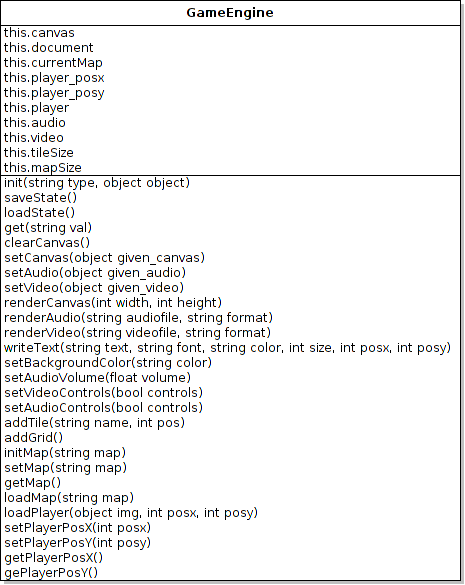
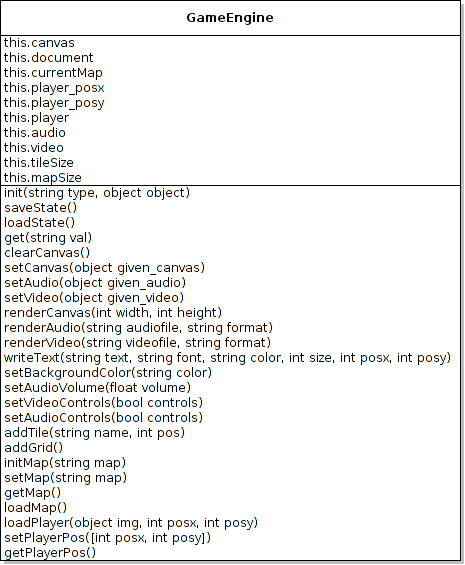
multiple handling files for audio and video, clean up code

diff --git a/assets/js/techdemo.js b/assets/js/techdemo.js
@@ -7,23 +7,25 @@ function techdemo() {
     engine.init("video",document.getElementById("video")); // set video element
     
     engine.renderCanvas(480,480); // render canvas
-    engine.renderAudio("assets/audio/soundtrack-example.ogg", "audio/ogg"); // render audio
+    engine.renderAudio(["assets/audio/soundtrack-example.ogg","assets/audio/soundtrack-example.MP3"], ["audio/ogg", "audio/mp3"]); // render audio
     engine.setAudioControls(true);
     
-    if (BrowserDetect.browser == "Safari" || BrowserDetect.browser == "Firefox")
+    /*if (BrowserDetect.browser == "Safari" || BrowserDetect.browser == "Firefox")
     {
-    	engine.renderVideo("assets/video/html5video.mp4", "video/mp4"); // render video
-    }
-    else {
     	engine.renderVideo("assets/video/html5video.ogv", "video/ogg"); // render video
     }
+    else {
+    	engine.renderVideo("assets/video/html5video.mp4", "video/mp4"); // render video
+    } */
+    engine.renderVideo(["assets/video/html5video.mp4","assets/video/html5video.ogv"],["video/mp4","video/ogg"]);
     
     engine.init("map", 15); // set map quad size
     engine.initMap("map0");
     engine.initMap("map1_1");
     engine.initMap("map1_2");
-    engine.setMap("map1_1"); // Set Player Map
-    
+    window.setTimeout(function() {
+        engine.setMap("map1_1").loadMap(); // Set Player Map
+    },500);
     // Main
     engine.setBackgroundColor("black"); // set background color
     
@@ -37,15 +39,15 @@ function techdemo() {
         switch(event.which) {
         case 48: // Press 0
         	engine.clearCanvas();
-        	generateMap0(engine);
+        	engine.setMap("map0").loadMap();
         	break;
         case 49: // Press 1
         	engine.clearCanvas();
-        	generateMap1_1(engine);
+        	engine.setMap("map1_1").loadMap();
         	break;
         case 50: // Press 2
         	engine.clearCanvas();
-        	generateMap1_2(engine);
+        	engine.setMap("map1_2").loadMap();
         	break;
         case 71: // Press G
         	engine.addGrid();
@@ -55,51 +57,51 @@ function techdemo() {
         	break;
         case 87: // Press W
         	if (checkPos1_1(engine)) {
-        		posy = engine.getPlayerPosY() - 10;
+        		posy = engine.getPlayerPos()[1] - 10;
         	}
         	else {
-        		posy = engine.getPlayerPosY() + 10;
+        		posy = engine.getPlayerPos()[1] + 10;
         	}
-        	engine.setPlayerPosY(posy);
+        	engine.setPlayerPos([engine.getPlayerPos()[0],posy]);
         	engine.clearCanvas();
         	engine.loadMap(engine.getMap());
-        	engine.loadPlayer("prototype_player",engine.getPlayerPosX(),posy);
+        	engine.loadPlayer("prototype_player",engine.getPlayerPos()[0],posy);
         	break;
         case 83: // Press S
         	if (checkPos1_1(engine)) {
-        		posy = engine.getPlayerPosY() + 10;
+        		posy = engine.getPlayerPos()[1] + 10;
         	}
         	else {
-        		posy = engine.getPlayerPosY() -10 ;
+        		posy = engine.getPlayerPos()[1] -10 ;
         	}
-        	engine.setPlayerPosY(posy);
+        	engine.setPlayerPos([engine.getPlayerPos()[0],posy]);
         	engine.clearCanvas();
         	engine.loadMap(engine.getMap());
-        	engine.loadPlayer("prototype_player",engine.getPlayerPosX(),posy);
+        	engine.loadPlayer("prototype_player",engine.getPlayerPos()[0],posy);
         	break;
         case 65: // Press A
         	if (checkPos1_1(engine)) {
-        		posx = engine.getPlayerPosX() - 10;
+        		posx = engine.getPlayerPos()[0] - 10;
         	}
         	else {
-        		posx = engine.getPlayerPosX() +10 ;
+        		posx = engine.getPlayerPos()[0] +10 ;
         	}
-        	engine.setPlayerPosX(posx);
+        	engine.setPlayerPos([posx,engine.getPlayerPos()[1]]);
         	engine.clearCanvas();
         	engine.loadMap(engine.getMap());
-        	engine.loadPlayer("prototype_player",posx,engine.getPlayerPosY());
+        	engine.loadPlayer("prototype_player",posx,engine.getPlayerPos()[1]);
         	break;
         case 68: // Press D
         	if (checkPos1_1(engine)) {
-        		posx = engine.getPlayerPosX() + 10;
+        		posx = engine.getPlayerPos()[0] + 10;
         	}
         	else {
-        		posx = engine.getPlayerPosX() -10 ;
+        		posx = engine.getPlayerPos()[0] -10 ;
         	}
-        	engine.setPlayerPosX(posx);
+        	engine.setPlayerPos([posx,engine.getPlayerPos()[1]]);
         	engine.clearCanvas();
         	engine.loadMap(engine.getMap());
-        	engine.loadPlayer("prototype_player",posx,engine.getPlayerPosY());
+        	engine.loadPlayer("prototype_player",posx,engine.getPlayerPos()[1]);
         	break;
         }
     };

diff --git a/engine/engine.js b/engine/engine.js
@@ -95,13 +95,28 @@ GameEngine.prototype = {
         return true;
     },
     renderAudio : function(audiofile, format) {
-        this.audio.setAttribute("src", audiofile);
-        this.audio.setAttribute("type", format);
+        for (var i = 0; i < audiofile.length; i++)
+        {
+            source = this.document.createElement("source");
+            source.setAttribute("src", audiofile[i]);
+            source.setAttribute("type", format[i]);
+            this.audio.appendChild(source);
+        }
+        
+        //this.audio.setAttribute("src", audiofile);
+        //this.audio.setAttribute("type", format);
         return true;
     },
     renderVideo: function(videofile,format) {
-    	this.video.setAttribute("src", videofile);
-    	this.video.setAttribute("type", format);
+        for (var i = 0; i < videofile.length; i++)
+        {
+            source = this.document.createElement("source");
+            source.setAttribute("src", videofile[i]);
+            source.setAttribute("type", format[i]);
+            this.video.appendChild(source);
+        }
+    	//this.video.setAttribute("src", videofile);
+    	//this.video.setAttribute("type", format);
     	return true;
     },
     writeText : function(text,font,color,size,posx,posy) {
@@ -176,13 +191,14 @@ GameEngine.prototype = {
     },
     setMap : function(map) {
     	this.currentMap = map;
-    	return true;
+    	return this;
     },
     getMap : function() {
     	return this.currentMap;
     },
-    loadMap : function(map) {
-    	switch(map) {
+    loadMap : function() {
+        //console.log(this.currentMap);
+    	switch(this.currentMap) {
     	case "map0":
     		generateMap0(this);
     		break;
@@ -193,7 +209,7 @@ GameEngine.prototype = {
     		generateMap1_2(this);
     		break;
     	}
-    	return true;
+    	return this;
     },
     loadPlayer : function(img,posx,posy) {
     	this.player_posx = posx;
@@ -203,20 +219,13 @@ GameEngine.prototype = {
     	context.drawImage(this.player,this.player_posx,this.player_posy);
     	return true;
     },
-    setPlayerPosX : function(posx) {
-    	this.player_posx = posx;
+    setPlayerPos : function(pos) {
+    	this.player_posx = pos[0];
+        this.player_posy = pos[1];
     	return true;
     },
-    setPlayerPosY : function(posy) {
-    	this.player_posy = posy;
-    	return true;
-    },
-    getPlayerPosX : function() {
-    	return this.player_posx;
+    getPlayerPos : function() {
+    	return [this.player_posx,this.player_posy];
     	
     },
-    getPlayerPosY : function() {
-    	return this.player_posy;
-    	
-    }
 };

diff --git a/techdemo.html b/techdemo.html
@@ -19,16 +19,28 @@ window.onload = function()
 		engine.loadState();
 		engine.loadPlayer("prototype_player",engine.getPlayerPosX(),engine.getPlayerPosY());
 	});
+    document.getElementById("selectMap").addEventListener('click', function() {
+        var maps = document.getElementById("maps");
+        engine.setMap(maps.options[maps.selectedIndex].value).loadMap();
+    });
 }
 </script>
 </head>
 <body>
 <h1>Techdemo</h1>
-<!--<i>Hit with your left mouse button into the canvas to start music. Type number(0.0-1.0) and hit [Enter]. Hit ESC to stop music.</i>
-<input type="number" id="music-volume" min="0.0" max="1.0" step="0.1" /><br /> -->
 <button id="saveState">Save</button> - <button id="loadState">Load</button><br />
-Try to hit the numbers 0-2 on your Number-Row above the letters. See what happens ;-) And if you press [G] you can overlay a grid to see 
-the tiles. Press [P] do add a player. The standard field is Map1. If you want to change the map, you must type in <i>engine.setMap("map0")</i> or <i>engine.setMap("map1_2")</i> into the javascript console of your browser.
+<select id="maps">
+<option value="map0">Map0 [0]</option>
+<option value="map1_1">Map1_1 [1]</option>
+<option value="map1_2">Map1_2 [2]</option>
+</select>
+<button id="selectMap">Select Map</button><br />
+The graphics should be loaded in cache, if you open this page the first
+time or after a cache trashing. For this you select Map 0 and click on
+"Select Map" a few times (ca. 3x).<br />
+If you press [G] you can overlay a grid to see the tiles. 
+Press [P] do add a player. The standard field is Map1. If you want 
+to change the map, you can select it above.
 <br />
 <canvas id="game"></canvas>
 <audio id="music"></audio>

diff --git a/assets/maps/map1_1.js b/assets/maps/map1_1.js
@@ -1,7 +1,7 @@
 function checkPos1_1(engine)
 {
-	posx = engine.getPlayerPosX();
-	posy = engine.getPlayerPosY();
+	posx = engine.getPlayerPos()[0];
+	posy = engine.getPlayerPos()[1];
 	if (posx <= 146 && posy >= 184 && posy <= 234)
 	{
 		return true;

diff --git a/concept/main.tex b/concept/main.tex
@@ -3,7 +3,7 @@
 \usepackage{ngerman}
 \usepackage[latin1]{inputenc}
 
-\title{Game Description (german)}
+\title{Spiel Konzept}
 \author{Maik W"ohl}
 \date{\today}
 
@@ -14,7 +14,7 @@
 
 \chapter*{Vorwort}
 
-Ich habe noch keinen Namen f"ur dieses Spiel aber ich habe mir mal gedacht ein HTML5 Rollenspiel zu basteln, dass eine isometrische 2D Grafik bietet. Nat"urlich, dachte ich, brauche ich daf"ur auch eine Engine oder eher JS-Bibliothek die mir da einiges an Schreibarbeit sp"ater abnimmt und habe viel gesucht und leider nur den Polyfill \emph{flashcanvas} gefunden, der aber v"ollig in Ordnung ist. Das hei"st f"ur mich, dass ich die Engine selber schreiben muss.
+Ich habe noch keinen Namen f"ur dieses Spiel aber ich habe mir mal gedacht ein HTML5 Rollenspiel zu basteln, dass eine isometrische 2D Grafik bietet. Nat"urlich, dachte ich, brauche ich daf"ur auch eine Engine oder eher JS-Bibliothek die mir da einiges an Schreibarbeit sp"ater abnimmt und habe viel gesucht und leider nichts passendes gefunden. Das hei"st f"ur mich, dass ich die Engine selber schreiben muss.
 
 Ich habe mir auch schon f"ur die Spielumsetzung einiges ausgedacht. Aber dazu sp"ater mehr. Ich habe zum Beispiel schon ein Logo f"ur meine GitHub Organisation \textbf{DaemonArtStudios}. Hier ist es:
 
@@ -33,14 +33,52 @@ Wechselkurse f"ur Geld und andere "ahnliche Dinge und auch die Verkaufwerte von 
 
 \chapter{Spielumsetzung}
 
-Dieses Spiel wird ein Browser-Spiel werden, was die neue Technologien verwendet. Diese sind also folgend im Namen HTML5 zusammengefasst. Man wird wegen der Inkompatiblit"at zu "alteren Browsern einen Polyfill einsetzen m"ussen, der \emph{flashcanvas} hei"st und von \emph{html5please.com} empfohlen ist.
+Dieses Spiel wird ein Browser-Spiel werden, was die neue Technologien verwendet. Diese sind also folgend im Namen HTML5 zusammengefasst. Man wird wegen der Inkompatiblit"at zu "alteren Browsern keinen Polyfill einsetzen m"ussen, da das Spiel nur auf modernste Browser setzt.
 
 Das Spiel wird keinen Server ben"otigen, deswegen werden alle  zeitkritischen Daten wie die aktuellen Wechselkurse f"ur das Geld nicht im \emph{ApplicationCache} vorgehalten und bei jedem Spielstart aktualisiert. Das ist sehr ungew"ohnlich f"ur ein Einzelspieler RPG, aber das macht grade den Reiz aus, der dem Spieler vermittelt werden soll. Aktuelle reale Wechselkurse f"ur das Geld und f"ur jeden Spieler gleiche Verkaufswerte in Markthallen und bei H"andlern.
 
-Vielleicht wird auch ein Server implementiert, der alle Daten synchronisiert und wenn sich der Spieler bei einem anderen Computer einloggt sollen die Daten wie Inventar und Bankinhalt auf den Computer transferiert werden. Das steht aber noch nicht fest und ist auch ein optionales Feature. Als andere L"osung k"onnte man auch ein Export-Format entwickeln, dass es einem erm"oglicht alle relevanten Daten zu exportieren und diese \emph{Benutzerprofil} wieder zu importieren.
+Vielleicht wird auch ein Server implementiert, der alle Daten synchronisiert und wenn sich der Spieler bei einem anderen Computer einloggt sollen die Daten wie Inventar und Bankinhalt auf den Computer transferiert werden. Das steht aber noch nicht fest und ist auch ein optionales Feature. Als andere L"osung k"onnte man auch ein Export-Format entwickeln, dass es einem erm"oglicht alle relevanten Daten zu exportieren und dieses \emph{Benutzerprofil} wieder zu importieren.
 
 
 \part{Detaillierte Beschreibung}
+
+\chapter{Kommunikation und Interaktion}
+
+Die Kommunikation in einem Spiel ist mitunter das wichtigste. Hier sollte die Kommunikation "uber Schl"usselw"orter im Dialog und per Chat-Eingabe verlaufen. Hier sieht man gewissen Parallelen zum Spiel \emph{Tibia}. 
+
+\section{NPC's}
+
+NPC's sind sogenannte \emph{Non Player Character's} welche computergenerierte Objekte sind. Diese erhalten einen klar strukturierten Wortschatz der aber erweiterbar ist. Wenn man einem NPC etwas beibringt, so soll dieser in der Lage sein dieses Wissen oder diesen Zugriff zu behalten. Das soll "uber einen Key-Value Store/LocalStore erm"oglicht werden. In diesem KVS werden die Namen im Schema \emph{NPC:Aktion | Reaktion} festgehalten. Sollte der Spieler also das Schl"usselwort AKTION in den Chat schreiben und dabei in einem Satz den Namen des NPC sagen, so wird dieser mit einer REAKTION reagieren. Diese kann verschieden ausfallen. Man sollte lediglich die Lernf"ahigkeit dieses NPC's auf gewisse Vorg"ange beschr"anken k"onnen. Man soll sich sein eigenes RPG dadurch erschaffen, dass man z.B. einen Magier zu einem Teleporter umwandelt und eine Masse an KVS-Daten anlegt die einen z.B. zu einem Kooridinatenpunkt im Spiel teleportieren. Das gibt es in keinem Spiel und erfordert viel Arbeit.
+
+\subsection{Chat}
+
+Da der Chat nur f"ur die Kommunikation zwischen Spieler und NPC ben"otigt wird, erscheint dieser zentriert am unteren Rand des Bildes wo links mitte und rechts mitte die Gesp"rachspartner platziert sind. Vorz"uglich der Spieler am linken Rand. Hier k"onnen Standardanimationen angewandt werden.
+
+\subsection{Aussehen}
+
+Das Aussehen eines NPC's sagt meist viel "uber seine Funktion im Spiel aus, so soll ein Magier auch eine Tracht tragen und ein Bogensch"utze auch einen Bogen. Im Dialog sollten die 2D Elemente sichtbar sein. Da im 2D Context kein echtes 3D m"oglich ist, soll stattdessen die Berechnung des Canvas eingestellt werden, also der Inhalt gesichert und leer geschrieben werden und ein Video-Overlay daneben erscheinen bzw. wenn es die Technik erm"oglicht, das Video dar"uber zu legen. Ein Videosequenz wo bei einer Auswahl der Antwort aber dann doch per Maus gespielt werden muss. Hier sollten diese in einem Programm wie Blender oder Cinema 4D modelliert werden und eben als Video abgespeichert werden. Diese Art des Chats ist aber eher fortgeschritten und muss nicht unbedingt zum Einsatz kommen, es reicht auch die Kommunikatio "uber den Chat.
+
+\section{Items und Spielobjekte}
+
+Items und Spielobjekte die bspw. eine Aktion ausl"osen, wie etwa ein Heiltrank oder ein Portal sollten "uber den Chat bzw. "uber einen Shortcut erreichbar sein. Hier wird sich einem KeyDown Event bedient, ein entsprechender Keylogger ist leicht gebaut.
+
+Items sollte in einer PNG-Grafik vorliegen die Alpha-Transparenz kennt, da die Items einmal gezeichnet werden und fortan nur als gr"o"sere oder kleinere Grafik erscheinen. Je nach Hintergrund verschieden.
+
+\chapter{F"ahigkeiten}
+
+Ein Charakter sollte entsprechende F"ahigkeiten haben. Diese werden nicht durch eine \emph{Rassenwahl} festgelegt, sondern durch den Spielverlauf. Der Spieler bestimmt, was er wird. Kann er gut mit Pfeil und Bogen so wird er Bogensch"utze. Das setzt aber auch ein Durchhalteverm"ogen und ein offenes Levelsystem voraus. 
+
+\section{Shortcut-Leiste}
+
+Die Shortcut-Leiste ist eine sich am unteren Bildrand befindende Leiste die es erm"oglicht "uber die Zahlen 1-0 auf F"ahigkeiten zuzugreifen, die dort abgelegt wurden. 
+
+\section{Abh"angigkeiten}
+
+Jede F"ahigkeit sollte Abh"angigkeiten besitzen. Diese Abh"angigkeiten k"onnen aus Heiltr"anken oder anderen Items bestehen. Ein Heilzauber sollte je nach Stufe entsprechende Mengen an Heiltr"anken oder Pflanzen voraussetzen. 
+
+\section{M"ogliche F"ahigkeiten}
+
+Es sollte verschiedene F"ahigkeiten f"ur die gew"ahlte prim"are Waffe geben. Das k"onnen nicht nur Zauber sein sondern auch Bewegungsk"unste wie das schnelle Ausweichen oder der Sprung "uber den Gegner mit anschlie"sendem Erstechen von hinten. Solche Sachen sollten m"oglich sein.
 
 \end{document} 
 

diff --git a/README.md b/README.md
@@ -1,15 +1,17 @@
 # HTML5 Game Engine
 ## Version: Pre-FPP
 
+**The video files are creepy!**
+
 Supported Browser:
 
 * all features
  * opera
  * firefox
+ * chrome
 * some features
 * in pending state
  * ie
- * chrome
 
 GameLogic:
 
